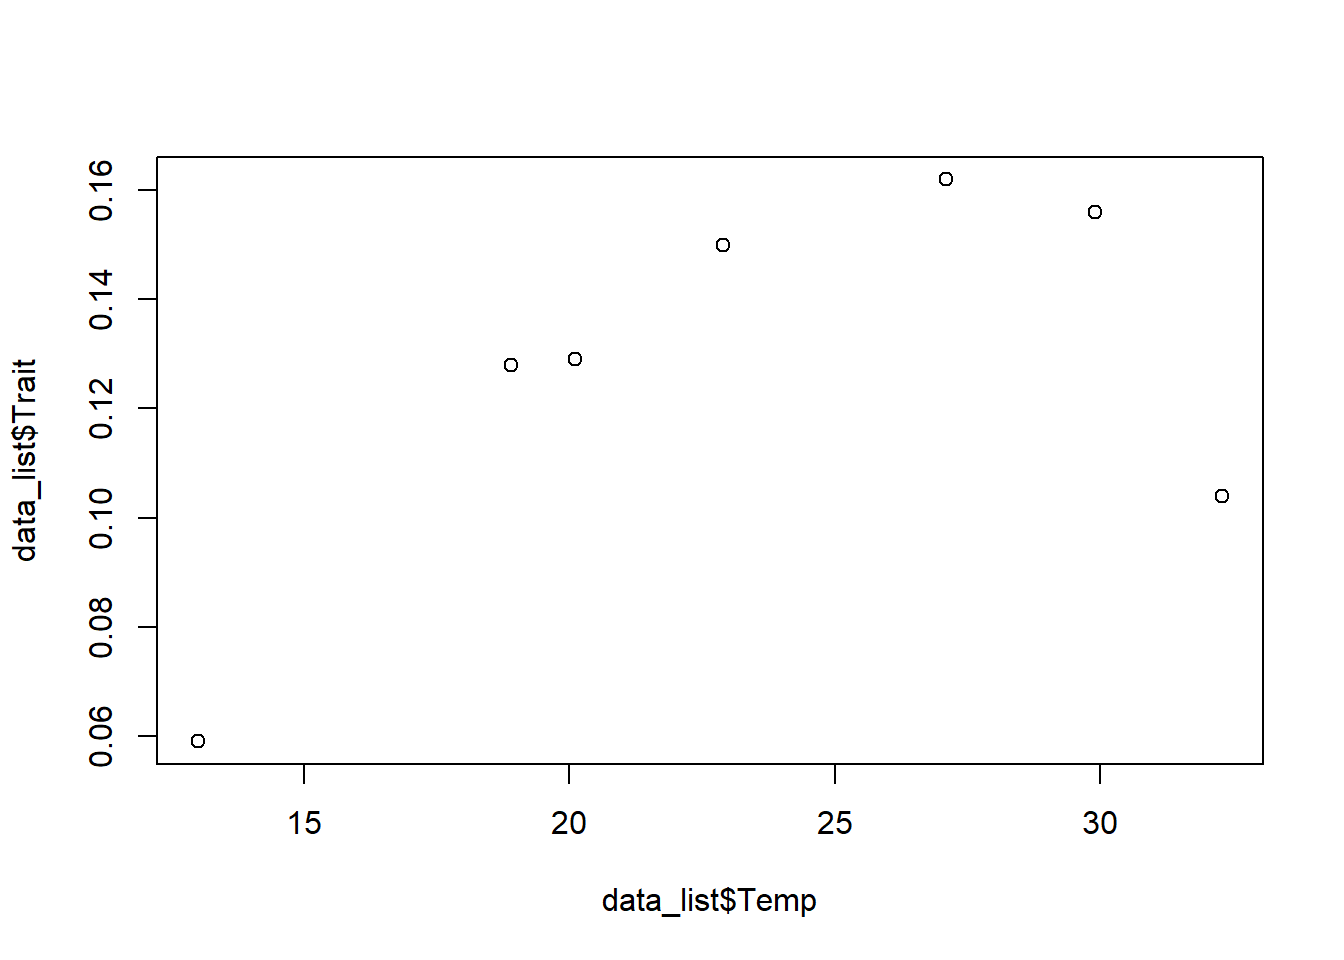
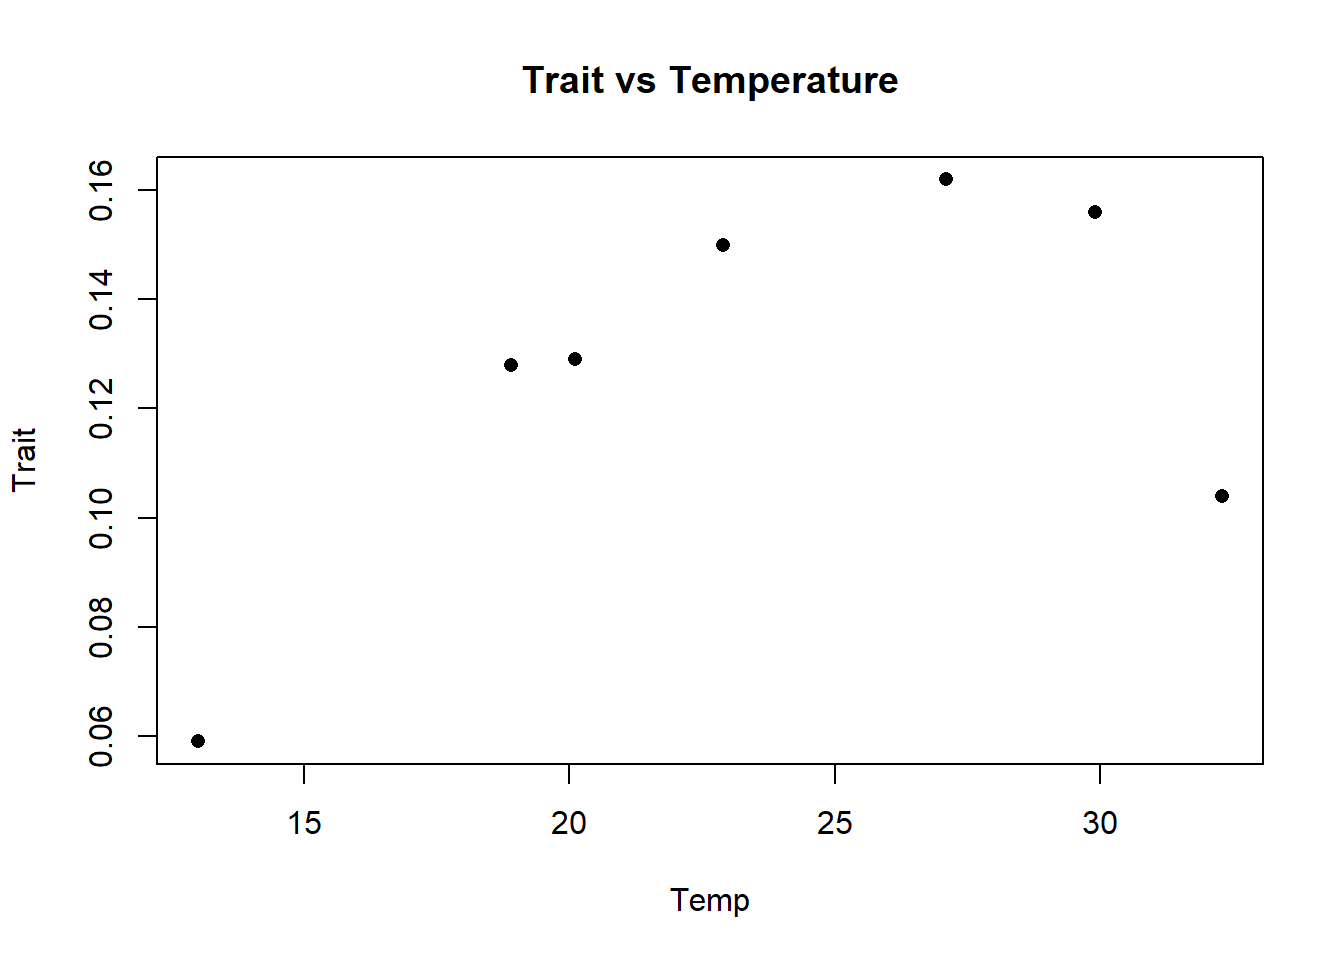
conlusion to intro and some editing

Changed region(s): [[0.4375, 0.9062, 0.625, 0.9688], [0.375, 0.0625, 0.6875, 0.125], [0.0, 0.375, 0.0312, 0.5938]]

diff --git a/bayesTPC/pages/intro.html b/bayesTPC/pages/intro.html
@@ -157,6 +157,7 @@ pre > code.sourceCode > span > a:first-child::before { text-decoration: underlin
   </ul></li>
   <li><a href="#creating-our-own-models" id="toc-creating-our-own-models" class="nav-link" data-scroll-target="#creating-our-own-models">Creating our own models</a></li>
   <li><a href="#model-selection" id="toc-model-selection" class="nav-link" data-scroll-target="#model-selection">Model Selection</a></li>
+  <li><a href="#conclusion" id="toc-conclusion" class="nav-link" data-scroll-target="#conclusion">Conclusion</a></li>
   </ul>
 </nav>
     </div>
@@ -180,7 +181,7 @@ pre > code.sourceCode > span > a:first-child::before { text-decoration: underlin
 
 </header>
 
-<p>On this page, we will show how to use bayesTPC to fit basic TPCs.</p>
+<p>On this page, we will show how to use bayesTPC to fit basic TPCs. We assume familiarity with Bayesian model fitting and MCMCs for the sake of this demonstration.</p>
 <section id="loading-required-packages" class="level1">
 <h1>Loading required packages</h1>
 <div class="cell">
@@ -261,7 +262,8 @@ Attaching package: 'nimble'</code></pre>
 <p>To fit using <code>bayesTPC</code>, we have to format our traits and temperatures into a named list.</p>
 <div class="cell">
 <div class="sourceCode cell-code" id="cb21"><pre class="sourceCode r code-with-copy"><code class="sourceCode r"><span id="cb21-1"><a href="#cb21-1" aria-hidden="true" tabindex="-1"></a>data_list <span class="ot">&lt;-</span> <span class="fu">list</span>(<span class="at">Trait =</span> data<span class="sc">$</span>OriginalTraitValue, <span class="at">Temp =</span> data<span class="sc">$</span>Interactor1Temp)</span>
-<span id="cb21-2"><a href="#cb21-2" aria-hidden="true" tabindex="-1"></a><span class="fu">plot</span>(data_list<span class="sc">$</span>Trait <span class="sc">~</span> data_list<span class="sc">$</span>Temp)</span></code><button title="Copy to Clipboard" class="code-copy-button"><i class="bi"></i></button></pre></div>
+<span id="cb21-2"><a href="#cb21-2" aria-hidden="true" tabindex="-1"></a><span class="fu">plot</span>(data_list<span class="sc">$</span>Trait <span class="sc">~</span> data_list<span class="sc">$</span>Temp, <span class="at">ylab =</span> <span class="st">"Trait"</span>, <span class="at">xlab =</span> <span class="st">"Temp"</span>,</span>
+<span id="cb21-3"><a href="#cb21-3" aria-hidden="true" tabindex="-1"></a>     <span class="at">main =</span> <span class="st">"Trait vs Temperature"</span>, <span class="at">pch =</span> <span class="dv">16</span>)</span></code><button title="Copy to Clipboard" class="code-copy-button"><i class="bi"></i></button></pre></div>
 <div class="cell-output-display">
 <p><img src="intro_files/figure-html/unnamed-chunk-5-1.png" class="img-fluid" width="672"></p>
 </div>
@@ -685,6 +687,10 @@ Field "pWAIC":
 </div>
 </div>
 <p>It looks like the default briere model performed the best out of all three fits.</p>
+</section>
+<section id="conclusion" class="level1">
+<h1>Conclusion</h1>
+<p>This introduction has showcased the basic functionality of bayesTPC and shows how to fit a basic thermal performance curve. Future examples will delve into fitting different kinds of models, best practices for fitting Bayesian TPCs, and more advanced features that <code>bayesTPC</code> provides. We hope you find it as useful and enjoyable to work with as we do and good luck on your model fitting adventures!</p>
 
 
 </section>
